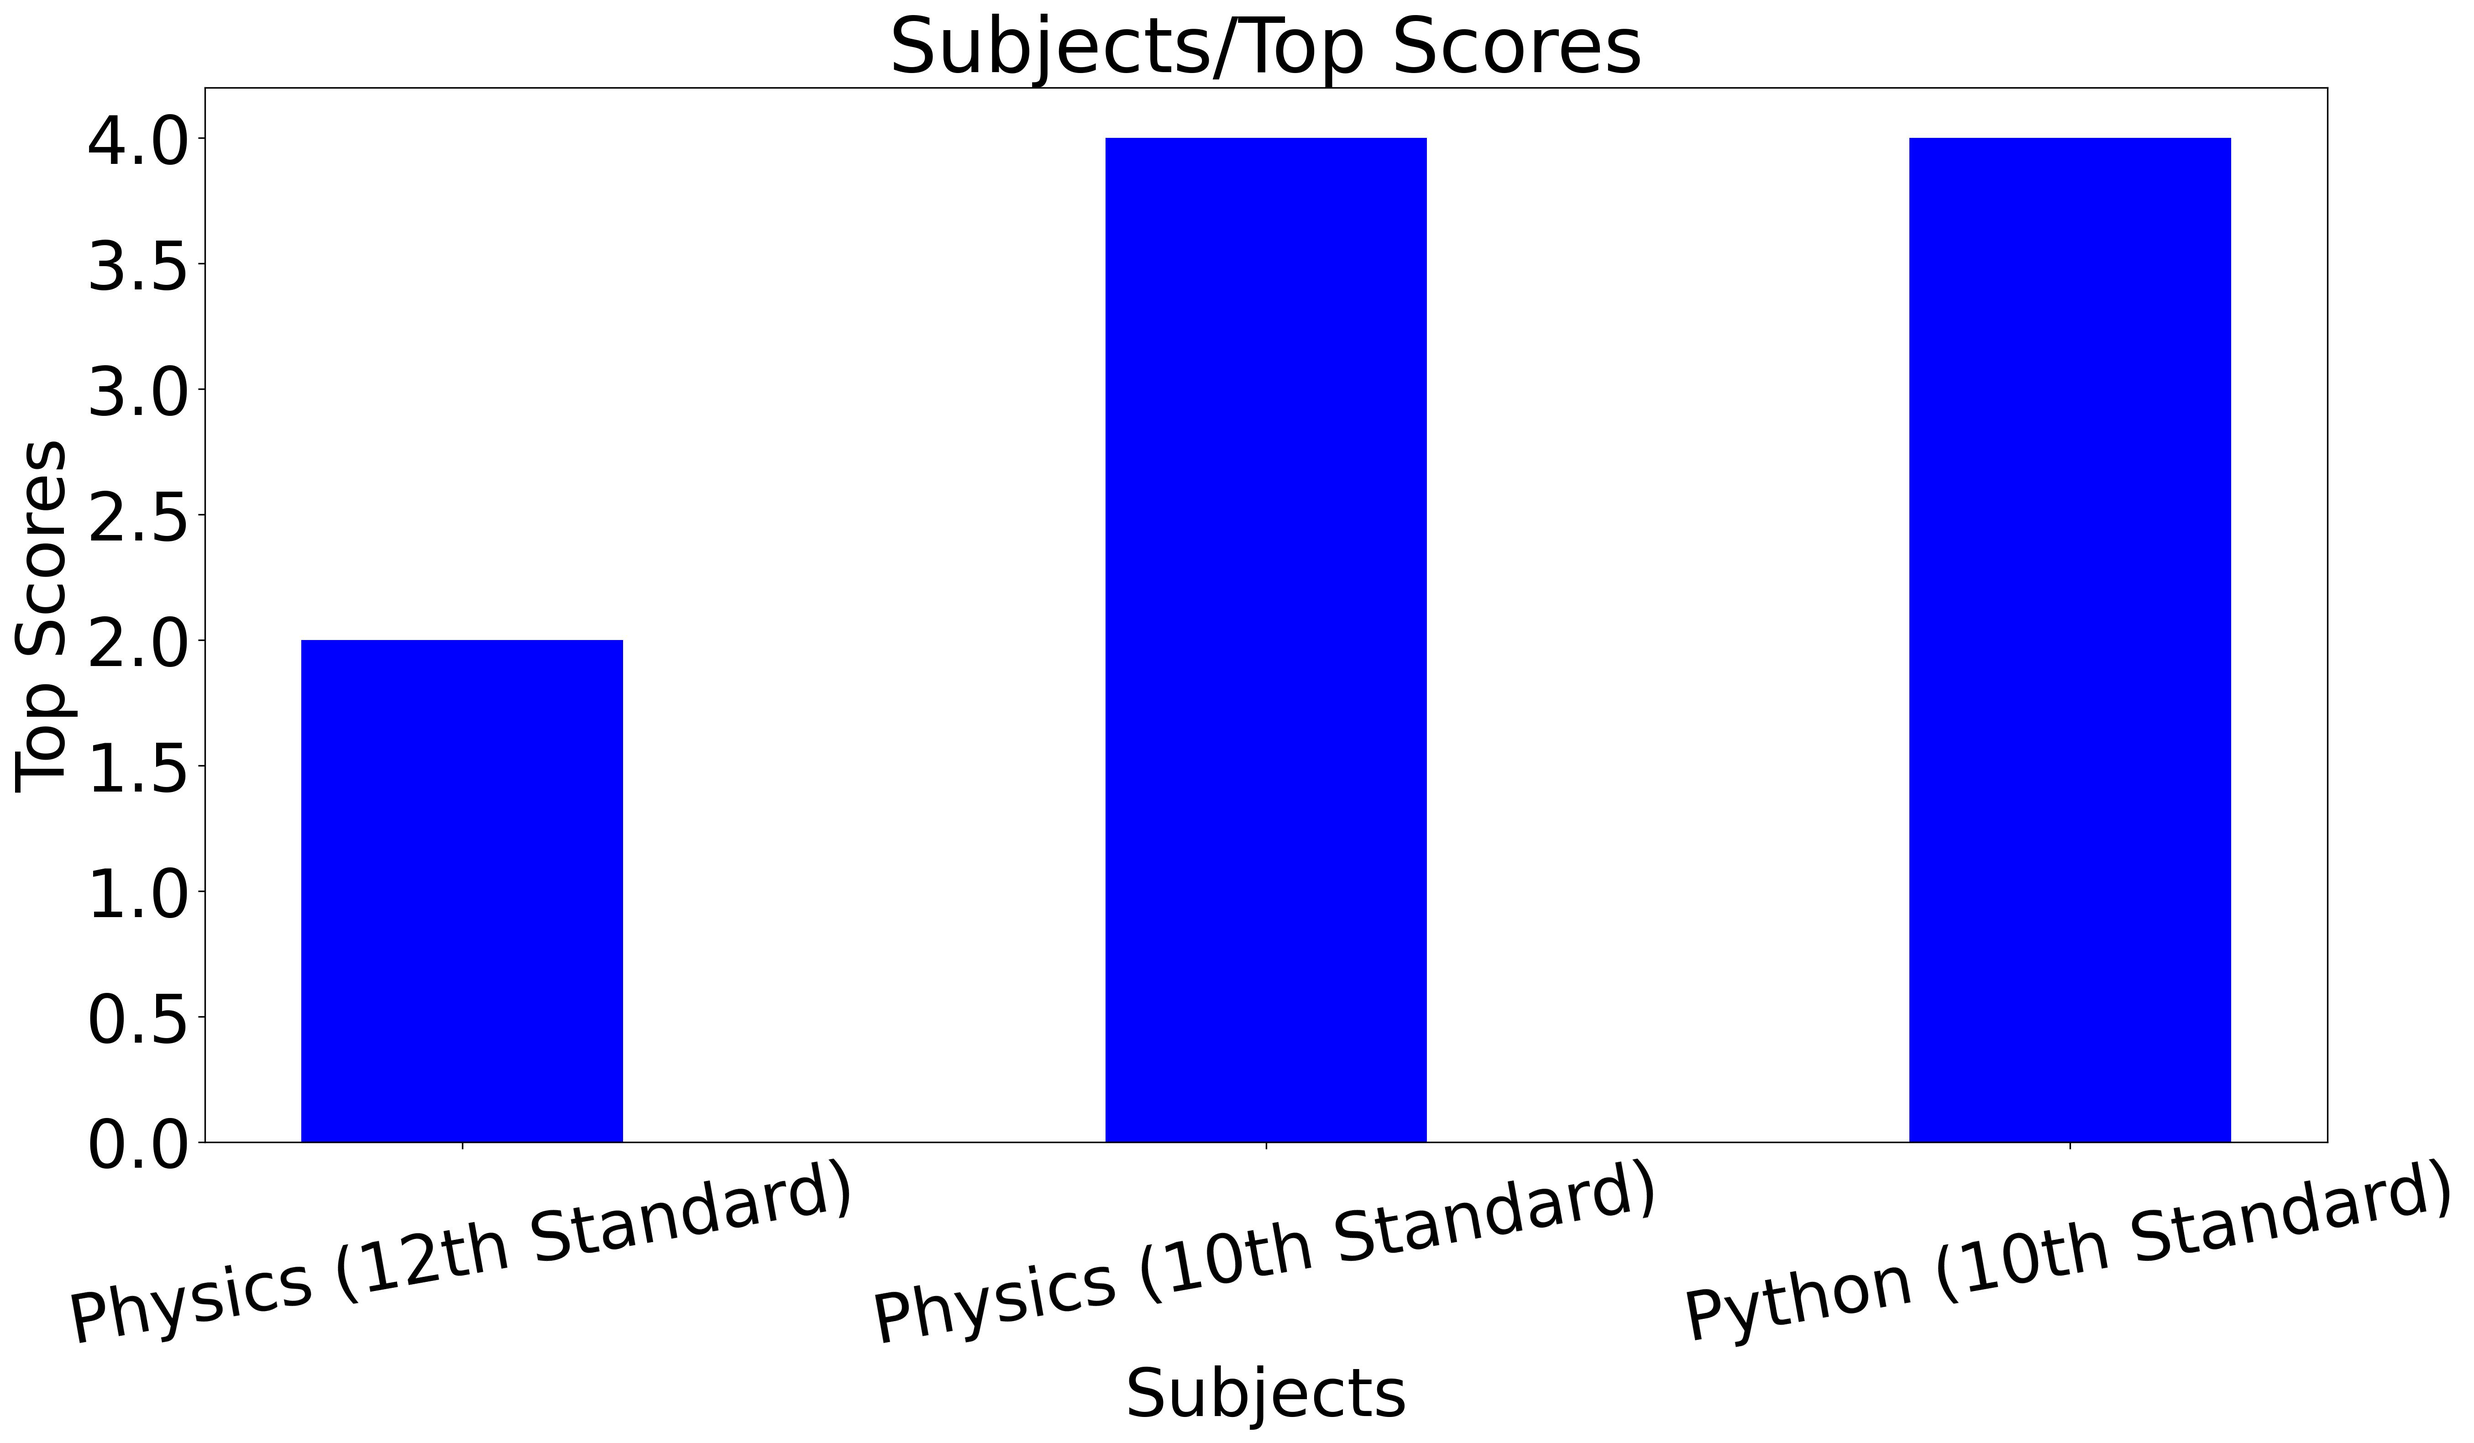
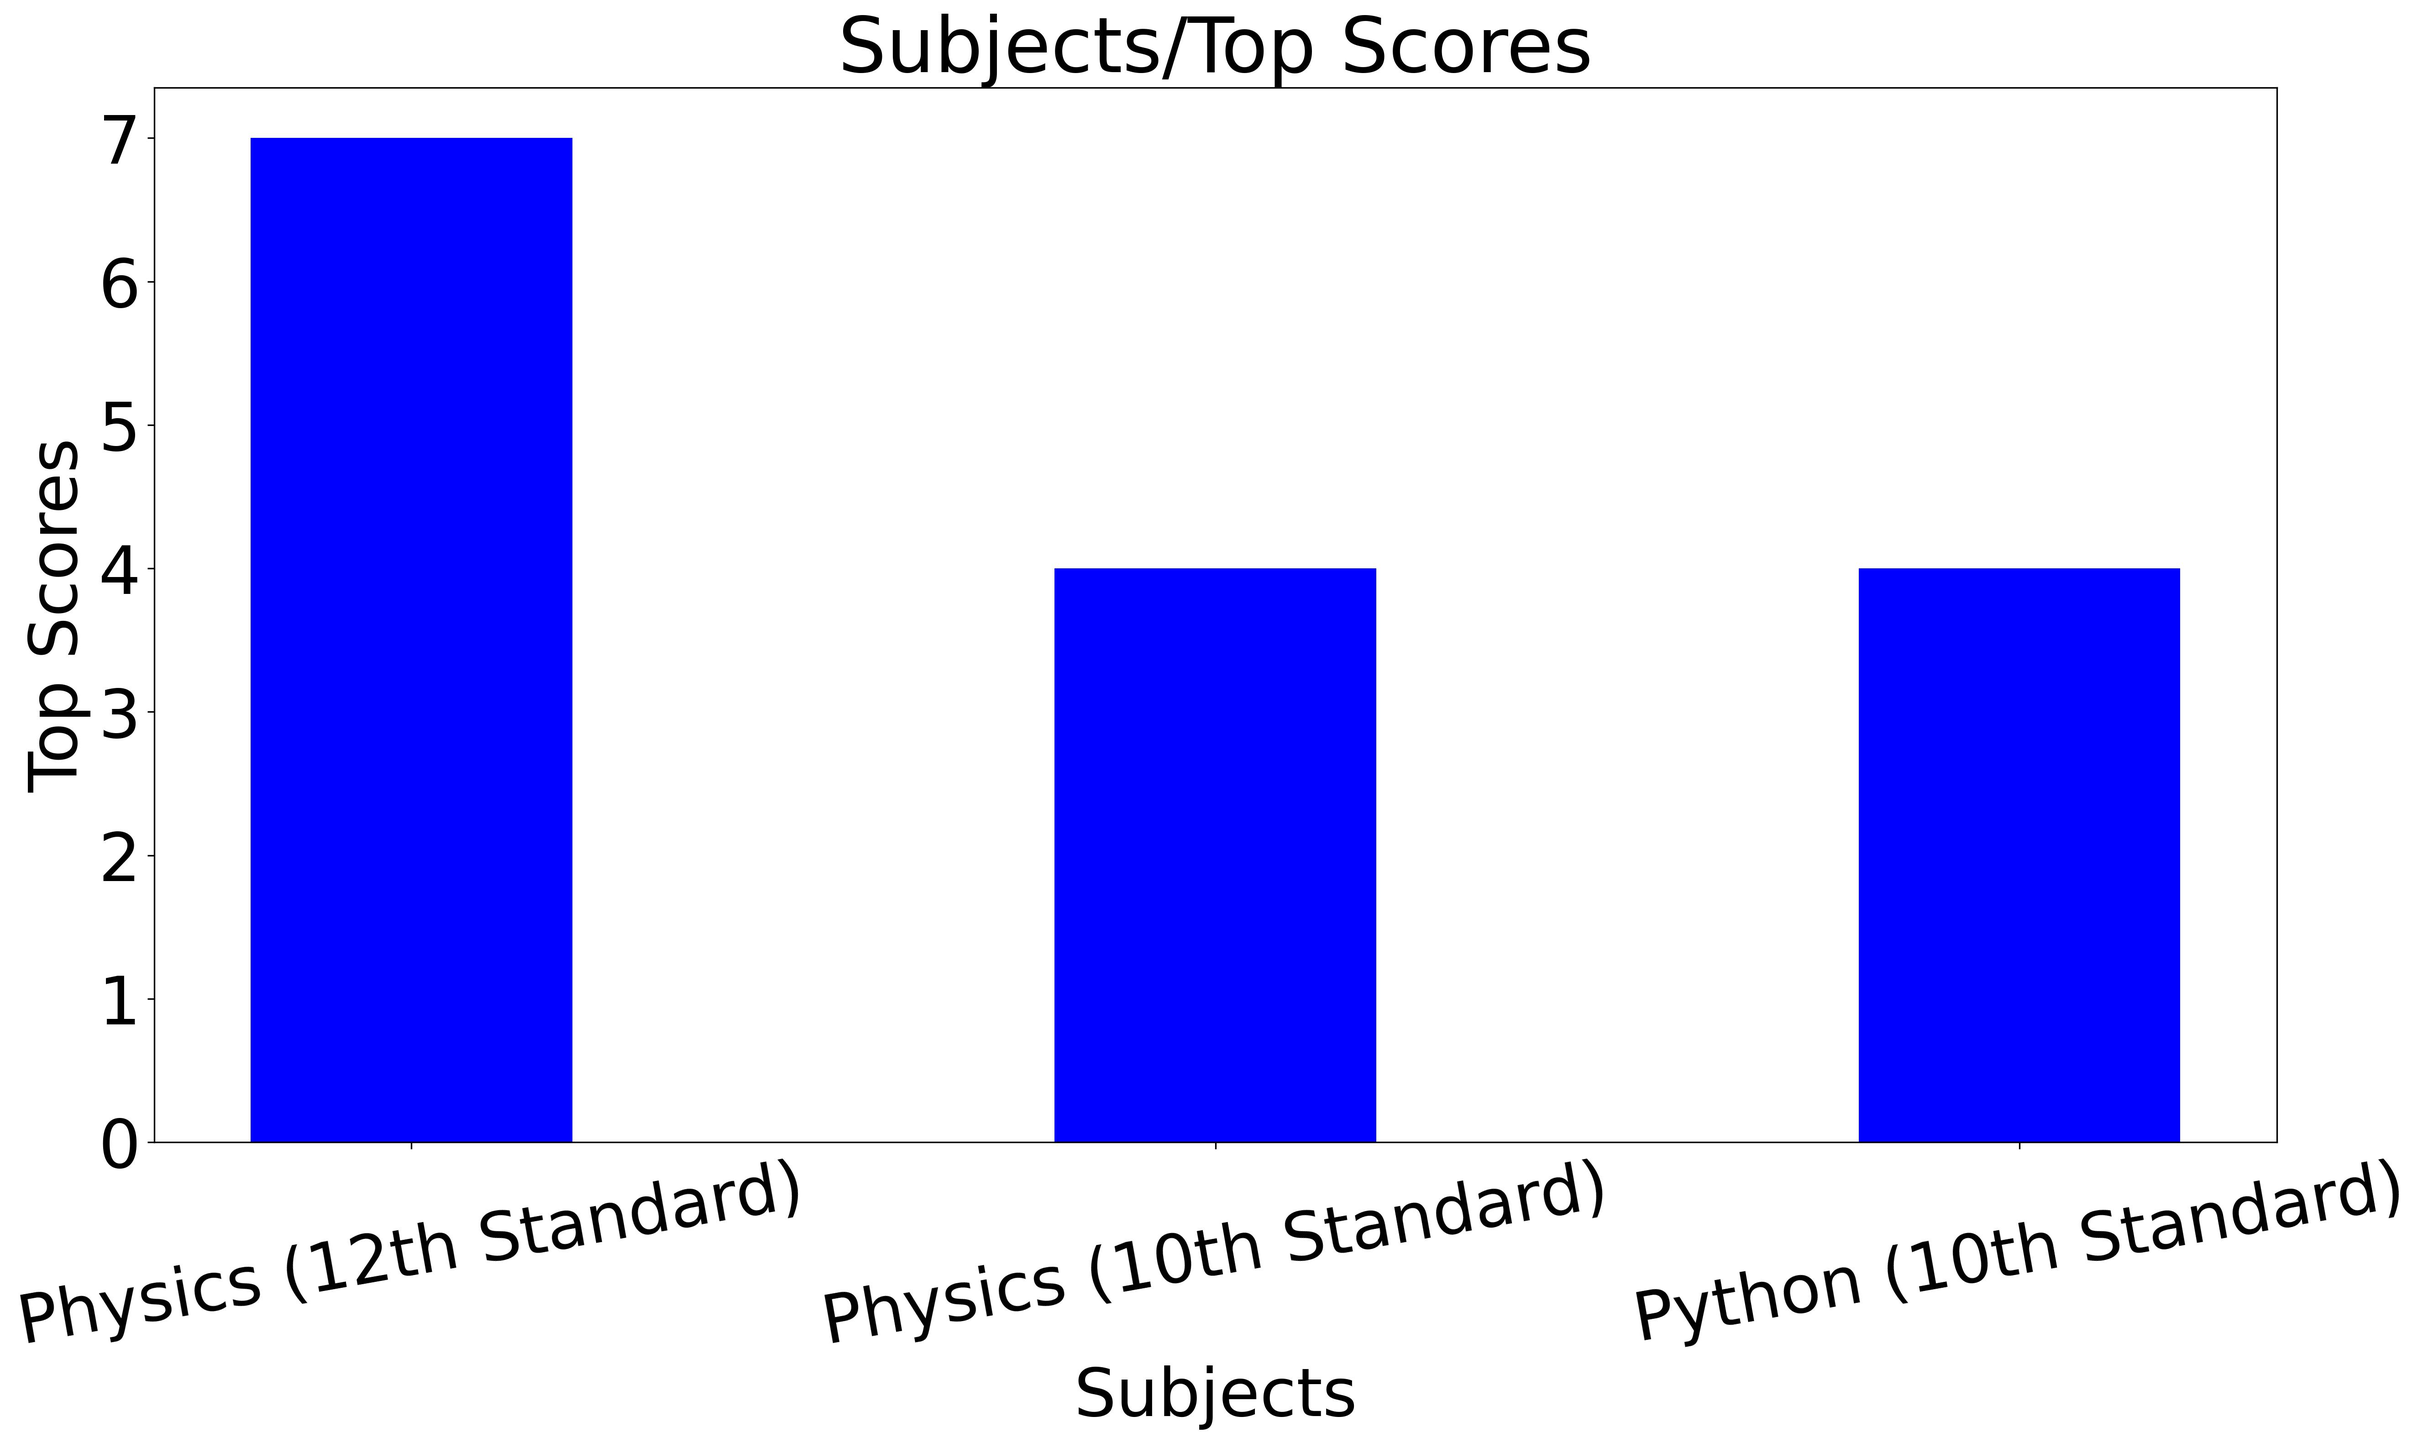
worked on user summary and admin search

diff --git a/templates/user_summary.html b/templates/user_summary.html
@@ -6,7 +6,7 @@
   <link href="https://cdn.jsdelivr.net/npm/bootstrap@5.3.3/dist/css/bootstrap.min.css" rel="stylesheet" integrity="sha384-QWTKZyjpPEjISv5WaRU9OFeRpok6YctnYmDr5pNlyT2bRjXh0JMhjY6hW+ALEwIH" crossorigin="anonymous">
   <link href="https://cdn.jsdelivr.net/npm/bootstrap-icons/font/bootstrap-icons.css" rel="stylesheet">
   <script src="https://unpkg.com/ionicons@latest/dist/ionicons.js"></script>
-  <link href="/static/style/user_dashboard.css" rel="stylesheet">
+  <link href="/static/style/admin_dashboard.css" rel="stylesheet">
   <title>User Dashboard</title>
 </head>
 <body>
@@ -32,14 +32,14 @@
               <a class="nav-link" href="/score/{{name}}">Scores</a>
             </li>
             <li class="nav-item">
-              <a class="nav-link" href="/user_summary/{{name}}">Summary</a>
+              <a class="nav-link" href="#">Summary</a>
             </li>
             <li class="nav-item">
               <a class="nav-link" onclick="window.location.href='/'">Logout</a>
             </li>
           </ul>
-          <form class="d-flex" role="search" method="POST" action="/user_search/{{name}}">
-            <input class="form-control me-2" type="search" placeholder="Search" aria-label="Search" name="search" id="search">
+          <form class="d-flex" role="search" method="POST" action="">
+            <input class="form-control me-2" type="search" placeholder="Search" aria-label="Search">
             <button class="btn btn-outline-success" type="submit">Search</button>
           </form>
           <span class="nav=text">
@@ -48,43 +48,22 @@
         </div>
       </div>
     </nav>
-    <h3>Upcoming Quizzes</h3>
-    
-    <div class="container new-container">
-      
-      <table class="table table-striped">
-        <table class="table">
-          <thead>
-            <tr>
-              <th scope="col">Sl No.</th>
-              <th scope="col">Quiz Name</th>
-              <th scope="col">Date & Time </th>
-              <th scope="col">Duration</th>
-              <th scope="col">Subject</th>
-              <th scope="col">Chapter</th>
-              <th scope="col">No. of questions</th>
-              <th scope="col" class="text-center">Action</th>
-            </tr>
-          </thead>
-          <tbody>
-            {% for quiz in quizzes %}
-            <tr>
-              <th scope="row">{{loop.index}}</th>
-              <td >{{quiz.name}}</td>
-              <td >{{quiz.date_of_quiz}}</td>
-              <td >{{quiz.time_duration}}</td>
-              <td >{{quiz.chapter.subject.name}}</td>
-              <td >{{quiz.chapter.name}}</td>
-              <td>{{quiz.questions | length}}</td>
-              <td><a href="/attempt_quiz/{{quiz.q_id}}/{{name}}" type="button" class="btn btn-success">Start</a>
-              {% endfor %}
-            </tr>
-          </tbody>
-        </table>
-        
-      </table>
+    <div class="flex-container">
+      <div class="card" style="width: 18rem;">
+        <div class="card-body">
+          <h5 class="title">Summary</h5>
+          <h6 class="card-subtitle mb-2 text-body-secondary">Subjects/No. of Quizzes Attempted</h6>
+          <img src="{{ url_for('static', filename='style/images/subjectwise_quiz_attempts.jpeg') }}" width="500" height="400" alt="Bar Chart">
+        </div>
+      </div>
+      <div class="card" style="width: 18rem;">
+        <div class="card-body">
+          <h5 class="title">Summary</h5>
+          <h6 class="card-subtitle mb-2 text-body-secondary">Subjectwise Average Scores</h6>
+          <img src="{{ url_for('static', filename='style/images/subjectwise_average.jpeg') }}" width="200" height="200" alt="Pie Chart">
+        </div>
+      </div>
     </div>
-    <hr />
   </div>
 </body>
 </html>

diff --git a/templates/quiz_search.html b/templates/quiz_search.html
@@ -47,42 +47,15 @@
         </div>
       </div>
     </nav>
-    {% for subject in subjects %}
-    <div class="container new-container">
-      <div class="title"><h5>{{subject.name}}</h5>
-        <a onclick="window.location.href='/admin_dashboard/{{subject.sub_id}}/edit_subject/{{name}}'" ><ion-icon name="pencil-outline" style="font-size: 25px;" ></ion-icon></a>
-        <a onclick="window.location.href='/admin_dashboard/{{subject.sub_id}}/delete_subject/{{name}}'"><ion-icon name="trash-outline" style="font-size: 20px;"></ion-icon></a>
-      </div>
-      <div class="description">{{subject.description}}</div>
-      <table class="table table-striped">
-        <table class="table">
-          <thead>
-            <tr>
-              <th scope="col">S. No</th>
-              <th scope="col">Chapter name</th>
-              <th scope="col">No. of Quizzes</th>
-              <th scope="col" class="text-center">Action</th>
-            </tr>
-          </thead>
-          <tbody>
-            {% for chapter in subject.chapters %}
-            <tr>
-              <th scope="row">{{chapter.ch_id}}</th>
-              <td id="clickable"><a onclick="window.location.href='/admin_dashboard/{{subject.sub_id}}/{{chapter.ch_id}}/{{name}}'">{{chapter.name}}</a></td>
-              <td>{{chapter.quizes | length}}</td>
-              <td><a onclick="window.location.href='/admin_dashboard/{{subject.sub_id}}/{{chapter.ch_id}}/edit_chapter/{{name}}'" type="button" class="btn btn-primary">Edit</a>
-              <a onclick="window.location.href='/admin_dashboard/{{subject.sub_id}}/{{chapter.ch_id}}/delete_chapter/{{name}}'" type="button" class="btn btn-danger">Delete</a></td>
-              {% endfor %}
-            </tr>
-          </tbody>
-        </table>
-        <a onclick="window.location.href='/admin_dashboard/{{subject.sub_id}}/new_chapter/{{name}}'" type="button" class="btn btn-outline-primary">+New Chapter</a>
-      </table>
-    </div>
-
-    <hr />
-    {% endfor %}
-  </div>
-  <a onclick="window.location.href='/admin_dashboard/new_subject/{{name}}'" type="button" class="btn btn-outline-primary">+New Subject</a>
+    <h2>Search Results for quiz</h2>
+    <ul> 
+      {% for quiz in quizzes %}
+      <li>
+        <a href="{{url_for('quizzes_in_chapters', subject_id=quiz.chapter.subject_id, chapter_id=quiz.chapter.ch_id, name=name)}}">
+          {{ quiz.name}} :- Chapter - {{quiz.chapter.name}} Subject - {{quiz.chapter.subject.name}}
+        </a>
+      </li>
+      {% endfor %}
+    </ul>
 </body>
 </html>

diff --git a/templates/admin_summary.html b/templates/admin_summary.html
@@ -52,14 +52,14 @@
         <div class="card-body">
           <h5 class="title">Summary</h5>
           <h6 class="card-subtitle mb-2 text-body-secondary">Subjects/Top Scores</h6>
-          <img src="./static/style/images/subjectwise_top_score.jpeg" twidth="200" height="200" alt="Bar Chart">
+          <img src="{{ url_for('static', filename='style/images/subjectwise_top_score.jpeg') }}" width="200" height="200" alt="Bar Chart">
         </div>
       </div>
       <div class="card" style="width: 18rem;">
         <div class="card-body">
           <h5 class="title">Summary</h5>
           <h6 class="card-subtitle mb-2 text-body-secondary">Subjectwise user attempts</h6>
-          <img src="./static/style/images/subjectwise_user_attempts.jpeg" width="200" height="200" alt="[Pie Chart]">
+          <img src="{{ url_for('static', filename='style/images/subjectwise_user_attempts.jpeg') }}" width="200" height="200" alt="Pie Chart">
         </div>
       </div>
     </div>

diff --git a/backend/controllers.py b/backend/controllers.py
@@ -325,8 +325,8 @@ def delete_question(subject_id, chapter_id, quiz_id, question_id, name):
   
 
 #admin_summary
-@app.route("/admin_summary")
-def admin_summary():
+@app.route("/admin_summary/<string:name>")
+def admin_summary(name):
 
   plot = subjectwise_top_score()
   plot.savefig("./static/style/images/subjectwise_top_score.jpeg", dpi=300, bbox_inches='tight')
@@ -336,14 +336,13 @@ def admin_summary():
   pie_plot.savefig("./static/style/images/subjectwise_user_attempts.jpeg", dpi=300, bbox_inches='tight')
   pie_plot.clf()
 
-  return render_template("admin_summary.html")
+  return render_template("admin_summary.html", name=name)
 #bar chart
 def subjectwise_top_score():
   scores = db.session.query(Scores).all()
   print(scores)
   top_scores_dict = {}
   for score in scores:
-    print(score.total_scored)
     score.subject = score.quiz.chapter.subject
     if score.subject.name in top_scores_dict.keys():
       if top_scores_dict[score.subject.name] < score.total_scored:
@@ -352,9 +351,7 @@ def subjectwise_top_score():
       top_scores_dict[score.subject.name] = score.total_scored
 
   x_names=list(top_scores_dict.keys())
-  print(x_names)
   y_top_scores=list(top_scores_dict.values())
-  print(y_top_scores)
   plt.figure(figsize=(20, 10))
   plt.bar(x_names,y_top_scores,color="blue", width=0.4)
   plt.title("Subjects/Top Scores", fontsize=40)
@@ -457,6 +454,82 @@ def admin_user(name):
      users=db.session.query(User).all()
      return render_template("admin_user.html", users=users, name=name)
   
+
+#user_summary
+@app.route("/user_summary/<string:name>")
+def user_summary(name):
+
+  plot = subjectwise_quiz_attempts(name)
+  plot.savefig("./static/style/images/subjectwise_quiz_attempts.jpeg", dpi=300, bbox_inches='tight')
+  plot.clf()
+
+  pie_plot = subjectwise_average(name)
+  pie_plot.savefig("./static/style/images/subjectwise_average.jpeg", dpi=300, bbox_inches='tight')
+  pie_plot.clf()
+
+
+
+
+  return render_template("user_summary.html", name=name)
+
+#bar chart
+def subjectwise_quiz_attempts(name):
+  user = User.query.filter_by(email=name).first()
+  if not user :
+    return plt
+  attempts = db.session.query(Scores).filter(Scores.user_id == user.user_id).all()
+  sub_attempts = {}
+  for attempt in attempts:
+    subject = attempt.quiz.chapter.subject
+    if subject.name in sub_attempts.keys():
+      sub_attempts[subject.name] += 1
+    else:
+      sub_attempts[subject.name] = 1
+
+  x_names = list(sub_attempts.keys())
+  y_counts = list(sub_attempts.values())
+
+  plt.figure(figsize=(20, 10))
+  plt.bar(x_names, y_counts, color='blue', width=0.4)
+  plt.title("Subjectwise number of quizzes attempts", fontsize=40)
+  plt.xlabel("Subjects", fontsize=35)
+  plt.ylabel("No. of Quizzes Attempted", fontsize=35)
+  plt.xticks(fontsize=35, rotation=10)
+  plt.yticks(fontsize=35)
+  return plt
+
+#pie chart
+def subjectwise_average(name):
+  user = User.query.filter_by(email=name).first()
+  if not user :
+    return plt
+  attempts = db.session.query(Scores).filter(Scores.user_id == user.user_id).all()
+  sub_scores = {}
+  sub_attempts = {}
+
+  for attempt in attempts:
+    subject = attempt.quiz.chapter.subject.name
+    if subject not in sub_scores:
+      sub_scores[subject] = 0
+      sub_attempts[subject] = 0
+    sub_scores[subject] += attempt.total_scored
+    sub_attempts[subject] +=1
+  average_scores = {}
+  for sub in sub_scores:
+    average_scores[sub] = sub_scores[subject]/sub_attempts[sub]
+
+  labels = list(average_scores.keys())
+  sizes = list(average_scores.values())
+
+  plt.figure(figsize=(8,8))
+  plt.pie(sizes, labels=labels, autopct='%1.1f%%', startangle=140, colors=['red', 'green', 'yellow', 'orange', 'violet'])
+  plt.title('Subjectwise Average Scores', fontsize=16)
+  return plt
+
+    
+
+
+  
 ################################################ Search ###############################################################################
 @app.route("/search/<name>", methods=['GET','POST'])
 def admin_search(name):
@@ -473,7 +546,7 @@ def admin_search(name):
     elif by_chapter:
       return render_template("admin_dashboard.html", name=name, chapters=by_chapter)
     elif by_quiz:
-      return render_template("quizzes_page.html", name=name, quizzes=by_quiz, chapter=chapter, subject=subject)
+      return render_template("quiz_search.html", name=name, quizzes=by_quiz)
   return redirect('/admin_dashboard/'+"/"+str(name))
 
 #supported functions
@@ -492,3 +565,23 @@ def search_by_quiz(search):
   quizzes = Quiz.query.filter(Quiz.name.ilike(f"%{search}%")).all()
   return quizzes
 
+#@app.route("/user_search/<name>", methods=['GET','POST'])
+#def user_search(name):
+  #if request.method=="POST":
+    #search = request.form.get("search")
+    #by_subject = user_search_by_subject(search)
+    ## by_chapter = user_search_by_chapter(search)
+    # by_quiz = user_search_by_quiz(search)
+    #if by_subject:
+      #return render_template("user_dashboard.html", name=name, quizzes=by_subject)
+
+    # elif by_chapter:
+    #   return render_template("user_dashboard.html", name=name, quizzes=by_chapter)
+    # elif by_quiz:
+    #   return render_template("user_dashboard.html", name=name, quizzes=by_quiz)
+  #return redirect('/user_dashboard/'+"/"+str(name))
+
+## Supporting function for user dashboard
+#def user_search_by_subject(search):
+  #quizzes = Quiz.query.filter(Quiz.chapter.subject.name.ilike(f"%{search}%")).all()
+  #return quizzes
